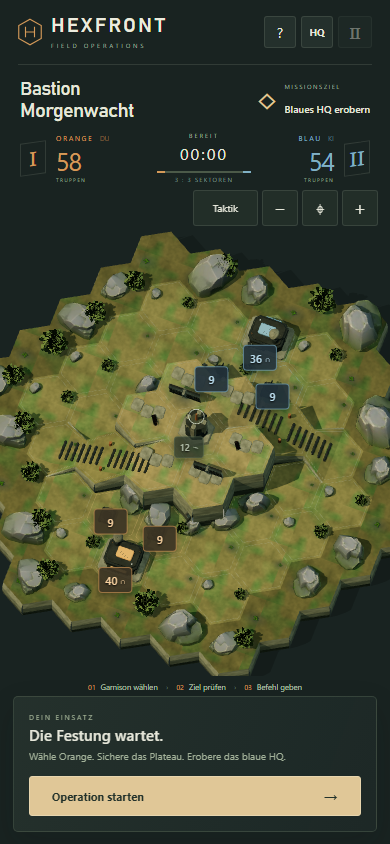
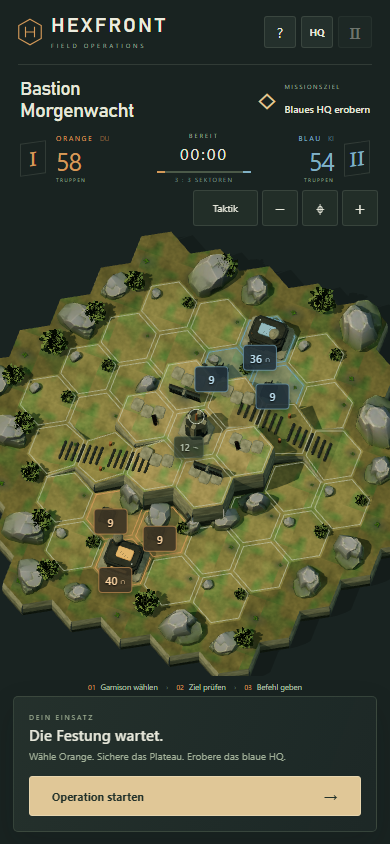
Clarify hex outlines and preserve team territory colours

diff --git a/experiments/hexfront-3d/src/scene.js b/experiments/hexfront-3d/src/scene.js
@@ -223,11 +223,14 @@ export class Diorama {
   buildMarkers(){
     this.leaderLines=document.createElementNS('http://www.w3.org/2000/svg','svg');this.leaderLines.classList.add('label-leaders');this.leaderLines.setAttribute('aria-hidden','true');this.labels.append(this.leaderLines);
     for(const c of this.game.cells){
-      const mat=new T.MeshBasicMaterial({color:COLORS[c.owner],transparent:true,opacity:.30,depthWrite:false,side:T.DoubleSide});
-      const marker=mesh(this.scene,ringGeometry(c,this.game.cells,.92,.012),mat);marker.castShadow=false;marker.receiveShadow=false;
+      const mat=new T.MeshBasicMaterial({color:COLORS[c.owner],transparent:true,opacity:.9,depthWrite:false,side:T.DoubleSide,toneMapped:false});
+      const marker=mesh(this.scene,ringGeometry(c,this.game.cells,.94,.035),mat);marker.castShadow=false;marker.receiveShadow=false;marker.renderOrder=2;
       const fillGeo=this.picks.find(p=>p.userData.cellId===c.id).geometry.clone();fillGeo.translate(0,.018,0);
-      const fill=new T.Mesh(fillGeo,new T.MeshBasicMaterial({color:COLORS[c.owner],transparent:true,opacity:0,depthWrite:false,side:T.DoubleSide}));this.scene.add(fill);
-      this.markers.set(c.id,{marker,fill});
+      const fill=new T.Mesh(fillGeo,new T.MeshBasicMaterial({color:COLORS[c.owner],transparent:true,opacity:0,depthWrite:false,side:T.DoubleSide,toneMapped:false}));fill.renderOrder=1;this.scene.add(fill);
+      // Keep territory colour independent of orders, as in the original board.
+      // A separate inset contour marks selection/reachability on the real slope.
+      const action=new T.Mesh(ringGeometry(c,this.game.cells,.80,.025),new T.MeshBasicMaterial({color:0xf2d9a4,transparent:true,opacity:.85,depthWrite:false,side:T.DoubleSide,toneMapped:false}));action.visible=false;action.renderOrder=3;this.scene.add(action);
+      this.markers.set(c.id,{marker,fill,action});
       const el=document.createElement('button');el.className='garrison '+c.owner;el.dataset.cell=c.id;el.type='button';el.innerHTML='<span class="count"></span><span class="cell-symbol"></span>';el.addEventListener('click',e=>{e.stopPropagation();this.onSelect(c.id);});el.addEventListener('pointerenter',()=>this.onHover(c.id));el.addEventListener('focus',()=>this.onHover(c.id));this.labels.append(el);this.labelsById.set(c.id,el);
     }
     this.pathLine=new T.Line(new T.BufferGeometry(),new T.LineDashedMaterial({color:0xe8d6a7,dashSize:.18,gapSize:.12,transparent:true,opacity:.8}));this.pathLine.frustumCulled=false;this.scene.add(this.pathLine);
@@ -339,10 +342,11 @@ export class Diorama {
     if(this.disposed)return;
     const selected=this.game.cell(this.selected),labelEntries=[];
     for(const c of this.game.cells){
-      const {marker,fill}=this.markers.get(c.id),isSelected=c.id===this.selected,reachable=selected&&selected.owner==='orange'&&!!this.game.path(selected,c),hover=c.id===this.hovered;
-      marker.material.color.setHex(isSelected?0xf2d9a4:reachable?0xe0d5ac:COLORS[c.owner]);marker.material.opacity=isSelected?.95:reachable?.7:c.owner==='neutral'?.38:.56;
-      fill.material.color.setHex(isSelected?COLORS.orange:reachable?0xcbce9e:COLORS[c.owner]);fill.material.opacity=isSelected?.16:reachable?.08:c.owner!=='neutral'?.045:0;
-      if(hover)fill.material.opacity+=.055;fill.visible=fill.material.opacity>.001;
+      const {marker,fill,action}=this.markers.get(c.id),isSelected=c.id===this.selected,reachable=selected&&selected.owner==='orange'&&!!this.game.path(selected,c),hover=c.id===this.hovered,owned=c.owner!=='neutral';
+      marker.material.color.setHex(owned?COLORS[c.owner]:0xc9d0bb);marker.material.opacity=owned?.95:.62;
+      fill.material.color.setHex(owned?COLORS[c.owner]:0xcbce9e);fill.material.opacity=owned?(isSelected?.34:.28):reachable?.07:0;
+      if(hover)fill.material.opacity+=.045;fill.visible=fill.material.opacity>.001;
+      action.visible=!!(isSelected||reachable);action.material.opacity=isSelected?1:.78;
       const el=this.labelsById.get(c.id),anchorZ=c.z+(c.kind==='hq'?.82:c.kind==='relay'?.68:.38),pos=this.project(c.x,surfaceHeight(this.game.cells,c,c.x,anchorZ)+.24,anchorZ);
       el.className=`garrison ${c.owner}${isSelected?' selected':''}${reachable?' reachable':''}`;
       el.querySelector('.count').textContent=Math.floor(c.units);el.querySelector('.cell-symbol').textContent=c.kind==='hq'?'⌂':c.kind==='relay'?'⌁':c.height>0?'↑':'';

diff --git a/experiments/hexfront-3d/docs/CAMERA.md b/experiments/hexfront-3d/docs/CAMERA.md
@@ -43,7 +43,15 @@ Die Aussage ist ausdrücklich **nicht**, dass alle 37 Flächen vollständig frei
 
 Die projizierte Begrenzung der spielbaren Bodenflächen wächst auf Desktop von rund **646 × 458 auf 660 × 642 Pixel**, auf Mobile von **290 × 224 auf 354 × 345 Pixel**. Das sind etwa **43 % beziehungsweise 88 % mehr Fläche des Begrenzungsrechtecks**. Es handelt sich nicht um gezählte Landschaftspixel. Die finale Canvas-Fläche beträgt 1165 × 678 beziehungsweise 390 × 447 Pixel. Die ganze spielbare Geometrie passt mit Rand in die Standardansicht; der dekorative Umgebungsrand ist kein Teil dieser Messung.
 
-Die verbleibenden Seitenwände, Schatten und geneigten Aufstiege sind bei 70° gut zu sehen. Zahlen liegen über ihrer tatsächlichen Oberfläche; bei Kollisionen verbinden feine Linien eine versetzte Anzeige mit ihrem Feld. Die bestehende neutrale Hexkontur wurde leicht verstärkt. Farben, Typografie, Befehlsablauf und Assets bleiben erhalten.
+Die verbleibenden Seitenwände, Schatten und geneigten Aufstiege sind bei 70° gut zu sehen. Zahlen liegen über ihrer tatsächlichen Oberfläche; bei Kollisionen verbinden feine Linien eine versetzte Anzeige mit ihrem Feld. Typografie, Befehlsablauf und Assets bleiben erhalten.
+
+## Hexkonturen und Teamfarben
+
+Nach dem Kameraabgleich wurde die Lesbarkeit des Besitzes gezielt an die ursprüngliche 2D-Version angeglichen: `src/rendering/BoardRenderer.ts` trennt dort ebenfalls Besitzfüllung, Außenkontur und helle Befehlsmarkierung. Im 3D-Experiment waren die Bodenfarben zuvor mit 4,5 % Deckkraft zu schwach und die Konturen zu schmal.
+
+Jetzt haben alle 37 Felder eine dauerhaft sichtbare, breitere Kontur. Besetzte Flächen und Außenränder verwenden die vorhandene Orange-/Blau-Palette. Die transparente Bodenfüllung hat 28 % Deckkraft, bei Auswahl 34 %; Texturen und Schatten bleiben darunter sichtbar. Ein separater heller Innenring zeigt Auswahl und erreichbare Ziele. Er ersetzt weder die Besitzfüllung noch den Teamrand. Die Ringe und Füllflächen liegen auf der tatsächlichen geneigten Hexoberfläche; Felsen und Gebäude werden nicht pauschal eingefärbt.
+
+Die sechs Winkelbilder und die finalen Produktionsbilder wurden mit dieser abschließenden Darstellung neu aufgenommen. Die unveränderten Vorher-Aufnahmen dokumentieren weiterhin den ursprünglichen Stand. [Desktop nach Eroberungen und mit Auswahl](camera/territory-desktop.png) und [Mobile mit derselben Situation](camera/territory-mobile.png) zeigen die zusätzlichen Befehlsringe im laufenden Spiel.
 
 ## Framing und Eingabe
 
@@ -58,7 +66,7 @@ Die verbleibenden Seitenwände, Schatten und geneigten Aufstiege sind bei 70° g
 
 ## Prüfungen
 
-`npm test`: **15 Tests bestanden**, einschließlich Winkeldefinition, Geometrie-Fit über verschiedene Seitenverhältnisse, Pan-Grenzen sowie aller bestehenden Navigations-, Kampf- und Matchtests. `npm run build`: **29 lokale Laufzeitdateien, 1,52 MiB**, Diagnose-API im Produktions-Build deaktiviert.
+`npm test`: **15 Tests bestanden**, einschließlich Winkeldefinition, Geometrie-Fit über verschiedene Seitenverhältnisse, Pan-Grenzen sowie aller bestehenden Navigations-, Kampf- und Matchtests. `npm run build`: **29 lokale Laufzeitdateien, 1,53 MiB**, Diagnose-API im Produktions-Build deaktiviert.
 
 Der Eingabetest verwendet echte Chromium-Mausklicks und Touch-Ereignisse. Er kontrolliert die empfangene logische Feld-ID, ohne Feldbesitz oder Einheiten zum Testen zu verändern. Geprüfte Auflösungen: **1440 × 900, 390 × 844, 320 × 568, 375 × 667 und 430 × 932**. Alle 37 Felder werden im jeweiligen Viewport tatsächlich angetippt, bei Bedarf mit Detailzoom. Dabei kommen alle drei Höhenstufen und die Felder direkt an Felswänden vor. Zusätzlich: beide HQ-Dächer und sichtbare zentrale Felswände bei 70° und 55°, Ansichtwechsel mit bestehender Auswahl, Mausrad/Pinch, Drag, Zoomgrenzen, Reset, HUD-Abstände und ein Größenwechsel bei bestehender Auswahl. Die genauen Ergebnisse stehen in [input-report.json](camera/input-report.json).
 
@@ -78,11 +86,14 @@ Der abschließende lokale **Produktions-Build** wird unabhängig davon mit laufe
 
 Die vollständigen Matchläufe verwendeten bereits die neue Kamera. Die danach abschließend korrigierten HUD-Abstände und Chromes Touch-Zielkorrektur wurden mit der obigen Eingabesuite, dem gezielten Regressionstest und dem Produktionsablauf erneut geprüft; ein weiterer kompletter Match wurde nach diesen letzten Korrekturen nicht wiederholt.
 
+Die letzte Anpassung der Hexkonturen und Teamflächen wurde zusätzlich mit `tests/territory.mjs` auf Desktop und Mobile geprüft: echter Maus-/Touchbefehl, erfolgreiche Eroberung durch Orange und selbstständige Eroberungen durch Blau, passende Boden-, Rand- und Zahlenfarben, separate Auswahl-/Erreichbarkeitsringe, Perspektivwechsel, Zoom und Fit. Anschließend spielt die KI bis zur tatsächlichen Niederlage weiter; der normale Neustart stellt die ursprünglichen Besitzer und Farben wieder her. Die Spielzustände werden dabei nicht umgeschrieben. [Besitzfarben-Testbericht](camera/territory-report.json). Produktionsablauf, Winkelaufnahmen und die 15 Logik-/Kameratests wurden nach dieser reinen Darstellungsänderung ebenfalls erneut ausgeführt; die umfangreiche Eingabesuite blieb unverändert.
+
 Reproduzieren, nach Installation des in der README genannten Playwright:
 
 ```powershell
 npm test
 npm run test:camera
+node tests/territory.mjs
 npm run test:browser
 npm run build
 $env:PREVIEW_URL = 'local'
@@ -95,6 +106,6 @@ node tests/hosted.mjs --camera
 
 Die 3D-Materialien und Modelle werden mit diesem Auftrag nicht aufgewertet; die ursprüngliche Distanz zu Tacticus' Environment-Art-Qualität bleibt bestehen. Der Gewinn ist eine besser lesbare, tatsächlich räumliche Taktikansicht. 55° bleibt absichtlich die stärker verdeckte Betrachtungsansicht. Sehr kleine Displays benötigen Detailzoom für dicht belegte Felder. Mobile Tests sind Browseremulation, keine Prüfung mit echten Android-/iOS-Geräten.
 
-Die verfügbare Browserumgebung rendert über **SwiftShader**. Der Matchtest erfasst Median-Framezeiten von etwa 167 ms auf Desktop und 133 ms im mobilen Viewport. Damit sind **60 FPS nicht nachgewiesen**; diese Software-Rendering-Zahlen sind kein verlässlicher Hardware-Benchmark. Der Kamerawechsel fügt keine GPU-Drawcalls hinzu. Ein Geräte-Performance-Pass bleibt nötig.
+Die verfügbare Browserumgebung rendert über **SwiftShader**. Der Matchtest erfasst Median-Framezeiten von etwa 167 ms auf Desktop und 133 ms im mobilen Viewport. Damit sind **60 FPS nicht nachgewiesen**; diese Software-Rendering-Zahlen sind kein verlässlicher Hardware-Benchmark. Der Kamerawechsel fügt keine GPU-Drawcalls hinzu. Die abschließend ergänzten Innenkonturen erzeugen während der Befehlswahl je ein kleines zusätzliches Mesh pro markiertem Feld; in der Übersicht sind sie ausgeblendet. Ein Geräte-Performance-Pass bleibt nötig.
 
 Code, Vergleichsbilder und Prüfergebnisse werden lokal auf dem bestehenden Experiment-Branch committed und separat archiviert. GitHub-Push und neues Hosting bleiben wie gewünscht zurückgestellt. **Die bisherige Vercel-URL zeigt weiterhin den vorherigen Kamerastand.** Main und das bestehende GitHub-Pages-Spiel wurden nicht verändert.

diff --git a/experiments/hexfront-3d/README.md b/experiments/hexfront-3d/README.md
@@ -6,6 +6,8 @@ Ein isolierter, tatsächlich spielbarer 3D-Vertical-Slice mit **einem Level**, 3
 
 **Kamera-Update:** Standard ist jetzt eine orthografische **70°-Taktikansicht**, ergänzt um eine feste 55°-Dioramaansicht. Framing, begrenzter Zoom und Verschieben richten sich nach der tatsächlichen projizierten Geometrie. [Vorher/60°/70°/80°-Vergleich und Eingabetests](docs/CAMERA.md).
 
+**Felder und Besitz:** Deutliche Hexkonturen bleiben ständig sichtbar. Eroberte Bodenflächen und ihre äußeren Ränder werden orange beziehungsweise blau eingefärbt. Eine zusätzliche helle Innenkontur markiert Auswahl und erreichbare Ziele, ohne die Teamfarbe zu ersetzen. Bodenstruktur, Schatten und echte Höhen bleiben erkennbar.
+
 **Veröffentlichungsstand:** Das Kamera-Update ist lokal auf dem Experiment-Branch gespeichert. Push und erneutes Deployment sind auf Wunsch zurückgestellt. Der obige Testlink zeigt noch die frühere Kamera; die folgenden Screenshots zeigen den neuen, lokal geprüften Produktions-Build. Der GitHub-Branch-Link ist erst nach einem erfolgreichen Push verfügbar.
 
 Eigenständiges Vercel-Projekt ohne Verbindung zum bisherigen Pages-Deployment. Hosting-Status: READY. Der externe Browseraufruf konnte wegen Netzwerk-/DNS-Beschränkungen dieser Arbeitsumgebung nicht verifiziert werden; der identische Produktions-Build wurde lokal geprüft. Details stehen im [QA-Bericht](docs/QA.md).
@@ -73,6 +75,7 @@ npm install --no-save --package-lock=false playwright@1.62.1
 npx playwright install chromium
 npm run test:browser
 npm run test:camera
+node tests/territory.mjs
 ```
 
 `node tests/hosted.mjs` prüft die öffentliche Produktions-URL mit echten Maus-/Touchbefehlen und nimmt die Abgabe-Screenshots auf. Mit `PREVIEW_URL=local` startet der Test selbst einen Produktionsserver auf Port 4178; alternativ akzeptiert die Variable eine eigene URL. In PowerShell: `$env:PREVIEW_URL='local'; node tests/hosted.mjs`. In dieser Umgebung war nur dieser lokale Durchlauf möglich.

diff --git a/README.md b/README.md
@@ -10,6 +10,8 @@ One playable 37-hex battlefield with real elevation, two ramps, Orange vs Blue A
 
 **Camera update, saved locally:** 70° tactical view, optional 55° diorama view, geometry-based framing and corrected picking. [Angle comparison and camera QA](./experiments/hexfront-3d/docs/CAMERA.md). Push and redeployment are deferred at the owner's request: the online preview above still uses the previous camera; the screenshots below show the updated local production build.
 
+Persistent hex outlines and Orange/Blue territory fills now make ownership visible across the battlefield. A separate inset outline marks reachable targets without replacing team colours; the textured 3D terrain remains visible.
+
 The deployment is reported READY by Vercel. External browser verification was blocked by this workspace's network/DNS access; the identical production build was tested locally. The prototype does **not** yet match Tacticus's production art quality, and 60 FPS on real mobile devices is unverified.
 
 <table>
